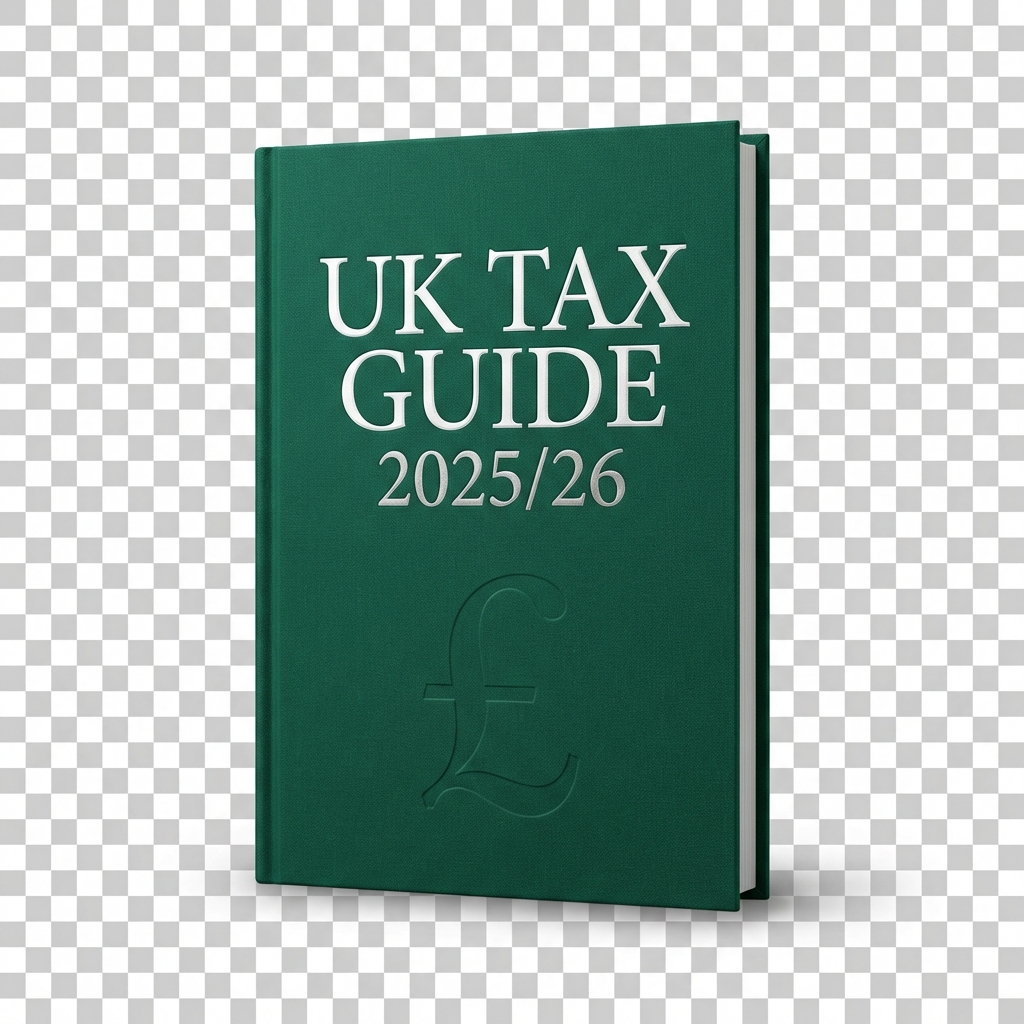
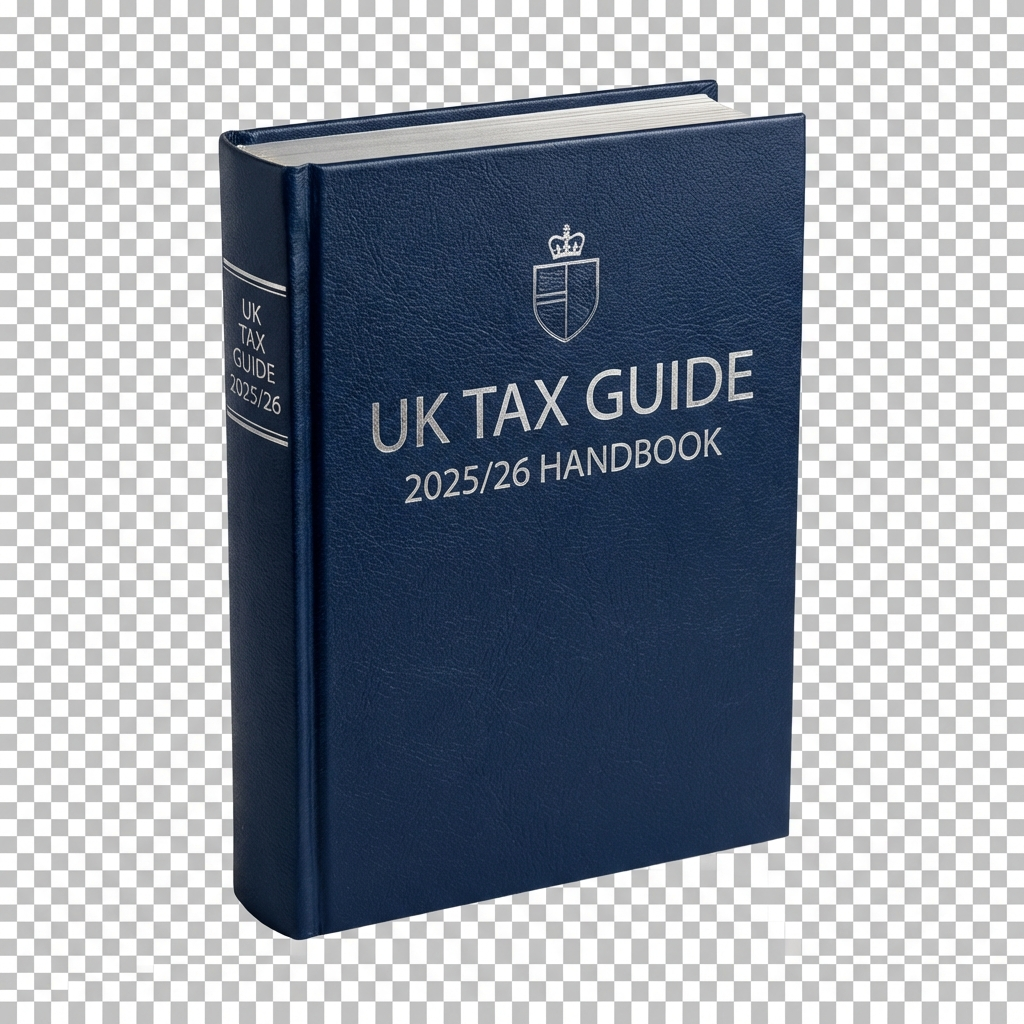
Update Lead Magnet Popup to Official Handbook Navy/Silver design

diff --git a/components/LeadMagnetPopup.tsx b/components/LeadMagnetPopup.tsx
@@ -1,5 +1,5 @@
 import React, { useState, useEffect } from 'react';
-import { X, CheckCircle, Download } from 'lucide-react';
+import { X, CheckCircle, Download, ShieldCheck } from 'lucide-react';
 
 const LeadMagnetPopup: React.FC = () => {
     const [isVisible, setIsVisible] = useState(false);
@@ -44,107 +44,111 @@ const LeadMagnetPopup: React.FC = () => {
         <div className="fixed inset-0 z-[100] flex items-center justify-center p-4">
             {/* Backdrop */}
             <div
-                className="absolute inset-0 bg-gray-900/60 backdrop-blur-sm animate-in fade-in duration-500"
+                className="absolute inset-0 bg-slate-900/70 backdrop-blur-sm animate-in fade-in duration-500"
                 onClick={handleClose}
             ></div>
 
             {/* Modal Card */}
-            <div className="relative w-full max-w-4xl bg-white rounded-xl shadow-2xl overflow-hidden animate-in zoom-in-95 fade-in duration-500 flex flex-col md:flex-row">
+            <div className="relative w-full max-w-4xl bg-white rounded-2xl shadow-2xl overflow-hidden animate-in zoom-in-95 fade-in duration-500 flex flex-col md:flex-row font-sans">
 
                 {/* Close Button (Top Right) */}
                 <button
                     onClick={handleClose}
-                    className="absolute top-4 right-4 z-20 p-2 text-gray-400 hover:text-gray-600 bg-white/80 rounded-full transition-colors"
+                    className="absolute top-4 right-4 z-20 p-2 text-gray-400 hover:text-gray-600 bg-white/90 rounded-full transition-colors shadow-sm"
                 >
                     <X size={20} />
                 </button>
 
-                {/* Left Side: Book Mockup */}
-                <div className="w-full md:w-1/2 bg-[#064e3b] relative flex items-center justify-center p-8 md:p-12 overflow-hidden">
+                {/* Left Side: Book Mockup - Navy Theme */}
+                <div className="w-full md:w-5/12 bg-[#1e293b] relative flex items-center justify-center p-8 md:p-12 overflow-hidden">
                     {/* Background Elements */}
-                    <div className="absolute inset-0 opacity-20 bg-[radial-gradient(circle_at_center,_var(--tw-gradient-stops))] from-white to-transparent"></div>
+                    <div className="absolute inset-0 bg-gradient-to-b from-[#1e293b] to-[#0f172a]"></div>
+                    <div className="absolute top-0 right-0 w-64 h-64 bg-indigo-500/10 rounded-full blur-3xl -translate-y-1/2 translate-x-1/2"></div>
 
-                    <div className="relative z-10 transform hover:scale-105 transition-transform duration-700">
+                    <div className="relative z-10 transform hover:scale-105 transition-transform duration-700 ease-out">
                         {/* Book Shadow */}
-                        <div className="absolute bottom-0 left-1/2 -translate-x-1/2 w-40 h-8 bg-black/40 blur-xl rounded-full"></div>
+                        <div className="absolute bottom-[-10px] left-1/2 -translate-x-1/2 w-48 h-10 bg-black/50 blur-xl rounded-[100%]"></div>
                         <img
                             src="/tax-guide-cover.png"
                             alt="UK Tax Guide 2025/26"
-                            className="w-48 md:w-56 lg:w-64 h-auto drop-shadow-2xl relative z-10"
+                            className="w-48 md:w-52 lg:w-60 h-auto drop-shadow-2xl relative z-10"
                         />
                     </div>
                 </div>
 
                 {/* Right Side: Content */}
-                <div className="w-full md:w-1/2 p-8 md:p-12 flex flex-col justify-center">
+                <div className="w-full md:w-7/12 p-8 md:p-10 lg:p-12 flex flex-col justify-center">
                     <div className="space-y-6">
-                        <div className="space-y-2">
-                            <div className="inline-flex items-center gap-2 px-3 py-1 rounded-full bg-emerald-50 text-emerald-700 text-xs font-bold uppercase tracking-wide border border-emerald-100">
-                                Official 2025/26 Update
+                        <div className="space-y-3">
+                            <div className="inline-flex items-center gap-2 px-3 py-1 rounded-full bg-blue-50 text-blue-800 text-xs font-bold uppercase tracking-wide border border-blue-100">
+                                <ShieldCheck size={12} />
+                                2025/26 Verified Edition
                             </div>
-                            <h2 className="text-3xl md:text-4xl font-serif font-bold text-gray-900 leading-tight">
-                                Maximize Your Tax Refund
+                            <h2 className="text-3xl lg:text-4xl font-bold text-gray-900 leading-tight tracking-tight">
+                                The Missing Manual for Your Tax Return.
                             </h2>
                             <p className="text-gray-600 text-lg leading-relaxed">
-                                Our comprehensive guide covers every relief available to UK taxpayers. Simplify your filing today.
+                                Don't leave money on the table. Our free handbook reveals the legal strategies high-earners use to reduce their tax bill.
                             </p>
                         </div>
 
                         {status === 'success' ? (
-                            <div className="bg-emerald-50 rounded-xl p-6 text-center animate-in zoom-in duration-300">
-                                <div className="w-16 h-16 bg-emerald-100 text-emerald-600 rounded-full flex items-center justify-center mx-auto mb-4">
+                            <div className="bg-blue-50 rounded-xl p-8 text-center animate-in zoom-in duration-300 border border-blue-100">
+                                <div className="w-16 h-16 bg-blue-100 text-blue-600 rounded-full flex items-center justify-center mx-auto mb-4 shadow-sm">
                                     <CheckCircle size={32} />
                                 </div>
-                                <h4 className="text-xl font-bold text-emerald-900 mb-2">Check your inbox!</h4>
-                                <p className="text-emerald-800">
-                                    We've sent the guide to <strong>{email}</strong>
+                                <h4 className="text-xl font-bold text-blue-900 mb-2">It's on the way!</h4>
+                                <p className="text-blue-800">
+                                    We've verified your email. Check <strong>{email}</strong> for your download link.
                                 </p>
                             </div>
                         ) : (
-                            <form onSubmit={handleSubmit} className="space-y-4">
+                            <form onSubmit={handleSubmit} className="space-y-4 pt-2">
                                 <div className="space-y-1">
-                                    <label htmlFor="email" className="block text-sm font-medium text-gray-700">
+                                    <label htmlFor="email" className="sr-only">
                                         Email Address
                                     </label>
                                     <input
                                         type="email"
                                         id="email"
-                                        placeholder="Enter your email"
+                                        placeholder="your@email.com"
                                         value={email}
                                         onChange={(e) => setEmail(e.target.value)}
-                                        className="w-full px-4 py-3.5 rounded-lg border border-gray-300 focus:border-emerald-600 focus:ring-1 focus:ring-emerald-600 outline-none transition-all text-base hover:bg-gray-50 bg-white shadow-sm"
+                                        className="w-full px-5 py-4 rounded-xl border border-gray-200 focus:border-blue-600 focus:ring-4 focus:ring-blue-600/10 outline-none transition-all text-base bg-gray-50 hover:bg-white placeholder:text-gray-400"
                                         required
                                     />
                                 </div>
                                 <button
                                     type="submit"
                                     disabled={status === 'loading'}
-                                    className="w-full bg-[#064e3b] hover:bg-[#065f46] text-white font-serif font-bold py-4 px-6 rounded-lg transition-all shadow-md hover:shadow-lg hover:-translate-y-0.5 flex items-center justify-center gap-2 disabled:opacity-70 disabled:cursor-not-allowed group text-lg"
+                                    className="w-full bg-[#1e293b] hover:bg-[#0f172a] text-white font-bold py-4 px-6 rounded-xl transition-all shadow-lg shadow-blue-900/20 hover:shadow-xl hover:-translate-y-0.5 flex items-center justify-center gap-3 disabled:opacity-70 disabled:cursor-not-allowed group text-base md:text-lg"
                                 >
                                     {status === 'loading' ? (
-                                        'Processing...'
+                                        'Sending...'
                                     ) : (
                                         <>
-                                            Download Free PDF <Download size={20} className="group-hover:translate-x-1 transition-transform" />
+                                            Send Me The Handbook <Download size={20} className="group-hover:translate-x-1 transition-transform opacity-80" />
                                         </>
                                     )}
                                 </button>
 
-                                <p className="text-center text-xs text-gray-400">
-                                    Secure & Confidential. Unsubscribe anytime.
+                                <p className="text-center text-xs text-gray-400 flex items-center justify-center gap-1">
+                                    <ShieldCheck size={12} /> Secure. No spam. 100% Free.
                                 </p>
                             </form>
                         )}
 
                         {/* Bottom Close Button */}
-                        <div className="flex justify-center pt-2">
-                            <button
-                                onClick={handleClose}
-                                className="text-gray-400 text-sm hover:text-gray-600 transition-colors uppercase font-bold tracking-wider"
-                            >
-                                No thanks, close window
-                            </button>
-                        </div>
+                        {!status && (
+                            <div className="flex justify-center pt-1">
+                                <button
+                                    onClick={handleClose}
+                                    className="text-gray-400 text-xs hover:text-gray-600 transition-colors uppercase font-bold tracking-widest hover:underline decoration-2 underline-offset-4 decoration-gray-200"
+                                >
+                                    I'll risk overpaying
+                                </button>
+                            </div>
+                        )}
                     </div>
                 </div>
             </div>
